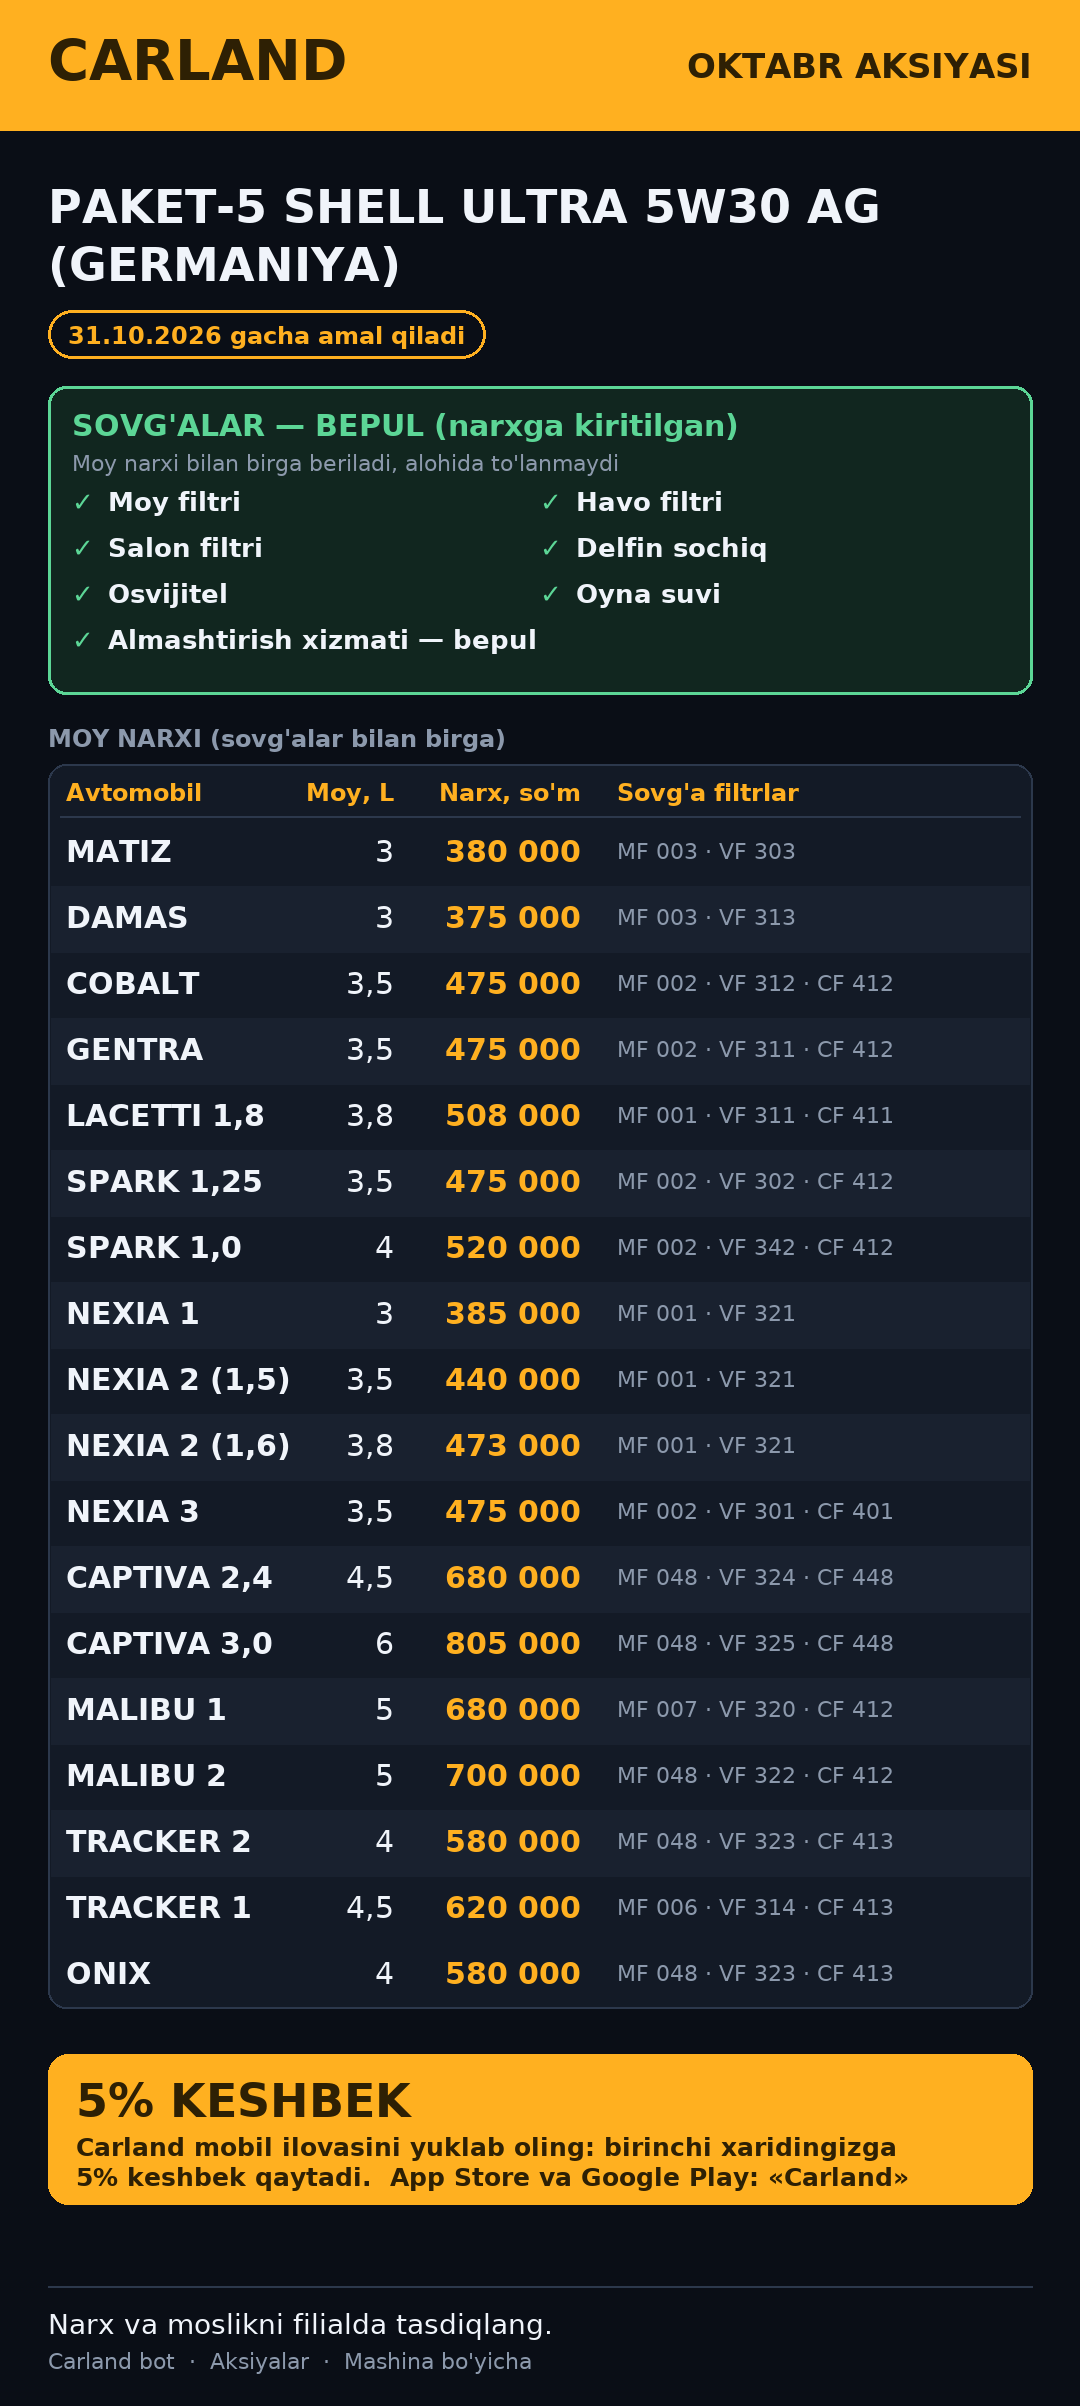
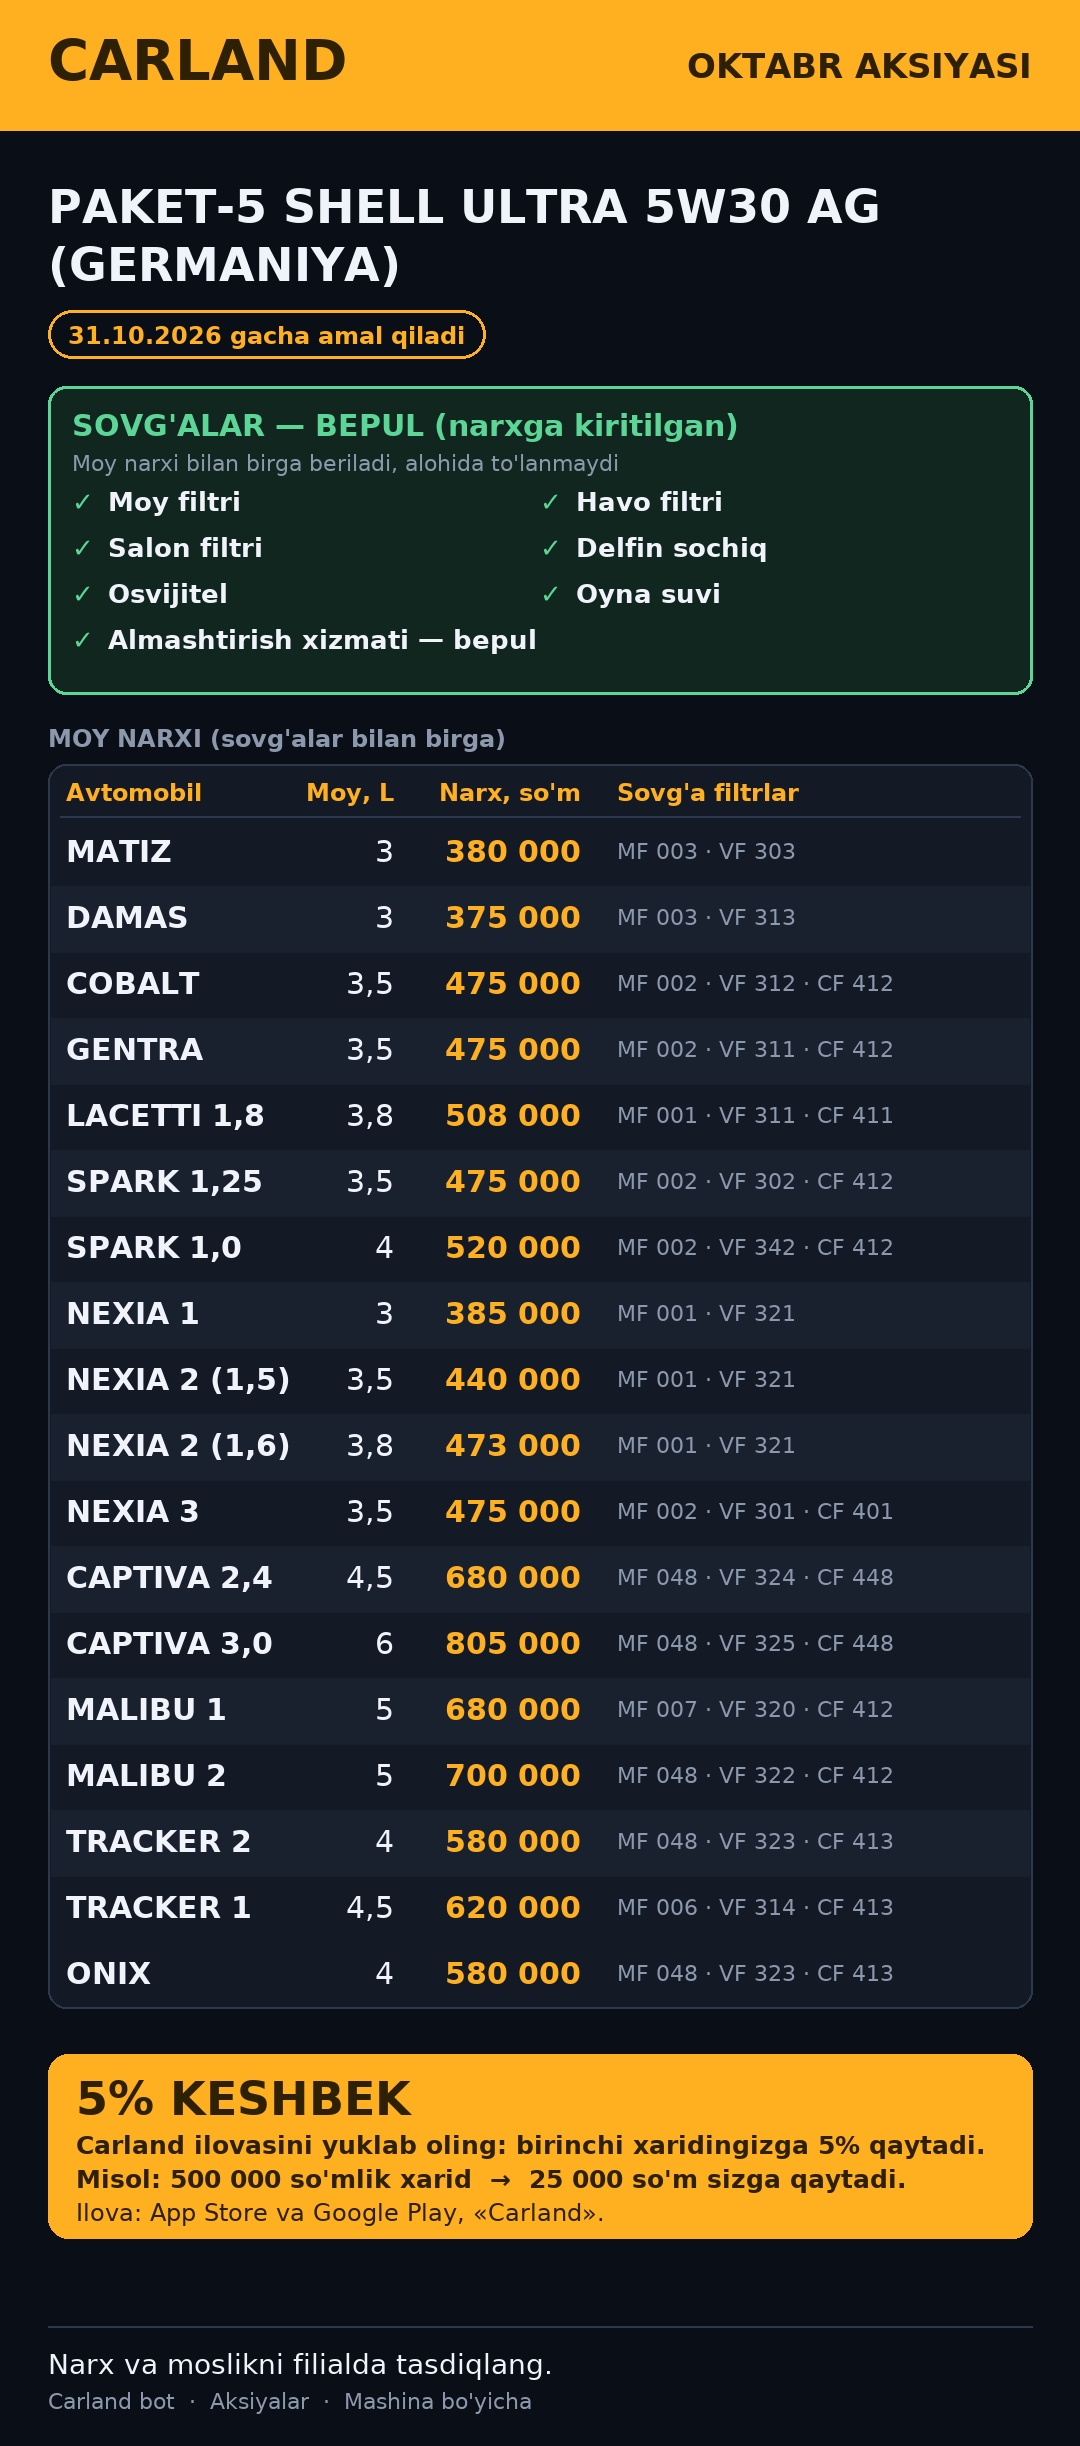
Keshbek: batafsil tushuntirish (3 qadam + misollar), bosh menyuda alohida tugma, erkin matnda "keshbek" savoliga tayyor javob; plakatlarda misol

diff --git a/bot/i18n.py b/bot/i18n.py
@@ -33,6 +33,35 @@ TEXT = {
             "Начните с меню ниже 👇"
         ),
     },
+    "menu_cashback": {"uz": "💳 Keshbek 5% — qanday olinadi?", "ru": "💳 Кешбэк 5% — как получить?"},
+    "cashback_full": {
+        "uz": (
+            "💳 *CARLAND KESHBEK — 5%*\n\n"
+            "Carland mobil ilovasini yuklab oling — *birinchi xaridingizga 5% keshbek* qaytadi.\n\n"
+            "*Qanday olinadi:*\n"
+            "1⃣ Ilovani yuklab oling (iPhone yoki Android — pastdagi tugmalar)\n"
+            "2⃣ Birinchi xaridingizni qiling\n"
+            "3⃣ Xarid summasining 5% qismi sizga keshbek bo'lib qaytadi\n\n"
+            "*Misol:*\n"
+            "• 200 000 so'mlik xarid → *10 000 so'm* qaytadi\n"
+            "• 500 000 so'mlik xarid → *25 000 so'm* qaytadi\n"
+            "• 1 000 000 so'mlik xarid → *50 000 so'm* qaytadi\n\n"
+            "📌 Keshbek qaysi usulda hisoblanishi va aniq shartlar — filialda yoki admin orqali aniqlashtiring."
+        ),
+        "ru": (
+            "💳 *КЕШБЭК CARLAND — 5%*\n\n"
+            "Скачайте мобильное приложение Carland — на *первую покупку вернём 5% кешбэка*.\n\n"
+            "*Как получить:*\n"
+            "1⃣ Скачайте приложение (iPhone или Android — кнопки ниже)\n"
+            "2⃣ Совершите первую покупку\n"
+            "3⃣ 5% от суммы покупки вернётся вам кешбэком\n\n"
+            "*Пример:*\n"
+            "• покупка на 200 000 сум → вернётся *10 000 сум*\n"
+            "• покупка на 500 000 сум → вернётся *25 000 сум*\n"
+            "• покупка на 1 000 000 сум → вернётся *50 000 сум*\n\n"
+            "📌 Как именно начисляется кешбэк и точные условия — уточняйте в филиале или у администратора."
+        ),
+    },
     "menu_app_ios": {"uz": "📱 iPhone — 5% keshbek", "ru": "📱 iPhone — кешбэк 5%"},
     "menu_app_android": {"uz": "🤖 Android — 5% keshbek", "ru": "🤖 Android — кешбэк 5%"},
     "cashback_note": {

diff --git a/bot/promo_posters.py b/bot/promo_posters.py
@@ -192,7 +192,7 @@ def render(key: str, pkg: dict) -> Image.Image:
     gift_cols = 2
     gift_rows_n = (len(gifts) + gift_cols - 1) // gift_cols
     h_gifts = (24 + 40 + 36 + gift_rows_n * 46 + 24) if gifts else 0
-    h_cash = 190
+    h_cash = 230
     row_h = 66 if has_codes or is_ev else 60
     head_h = 78 if is_ev else 56
     h_table = head_h + len(rows) * row_h
@@ -299,10 +299,11 @@ def render(key: str, pkg: dict) -> Image.Image:
 
     # keshbek bandi
     ty += 10
-    d.rounded_rectangle([PAD, ty, W - PAD, ty + 150], radius=20, fill=AMBER)
-    d.text((PAD + 28, ty + 20), "5% KESHBEK", font=_font(True, 46), fill=AMBER_DARK)
-    d.text((PAD + 28, ty + 78), "Carland mobil ilovasini yuklab oling: birinchi xaridingizga", font=_font(True, 25), fill=AMBER_DARK)
-    d.text((PAD + 28, ty + 108), "5% keshbek qaytadi.  App Store va Google Play: «Carland»", font=_font(True, 25), fill=AMBER_DARK)
+    d.rounded_rectangle([PAD, ty, W - PAD, ty + 184], radius=20, fill=AMBER)
+    d.text((PAD + 28, ty + 18), "5% KESHBEK", font=_font(True, 46), fill=AMBER_DARK)
+    d.text((PAD + 28, ty + 76), "Carland ilovasini yuklab oling: birinchi xaridingizga 5% qaytadi.", font=_font(True, 25), fill=AMBER_DARK)
+    d.text((PAD + 28, ty + 110), "Misol: 500 000 so'mlik xarid  →  25 000 so'm sizga qaytadi.", font=_font(True, 25), fill=AMBER_DARK)
+    d.text((PAD + 28, ty + 144), "Ilova: App Store va Google Play, «Carland».", font=_font(False, 24), fill=AMBER_DARK)
 
     # pastki qism
     d.line([PAD, total - 120, W - PAD, total - 120], fill=LINE, width=2)

diff --git a/bot/keyboards.py b/bot/keyboards.py
@@ -20,11 +20,22 @@ def main_menu(lang: str = "uz", has_recent: bool = False):
         [InlineKeyboardButton(t("menu_info", lang), callback_data="menu:info:0")],
         [InlineKeyboardButton(t("menu_branches", lang), callback_data="menu:branches")],
         [InlineKeyboardButton(t("menu_promo", lang), callback_data="menu:promohub")],
+        [InlineKeyboardButton(t("menu_cashback", lang), callback_data="menu:cashback")],
         [InlineKeyboardButton(t("menu_app_ios", lang), url=config.APP_STORE_URL),
          InlineKeyboardButton(t("menu_app_android", lang), url=config.PLAY_STORE_URL)],
         [InlineKeyboardButton(t("menu_ai", lang), callback_data="menu:ai")],
         [InlineKeyboardButton(t("menu_admin", lang), url=f"https://t.me/{ADMIN_USERNAME}")],
         [InlineKeyboardButton(t("menu_lang", lang), callback_data="menu:lang")],
+    ]
+    return InlineKeyboardMarkup(rows)
+
+
+def cashback_menu(lang: str = "uz"):
+    rows = [
+        [InlineKeyboardButton(t("menu_app_ios", lang), url=config.APP_STORE_URL),
+         InlineKeyboardButton(t("menu_app_android", lang), url=config.PLAY_STORE_URL)],
+        [InlineKeyboardButton(t("menu_admin", lang), url=f"https://t.me/{ADMIN_USERNAME}")],
+        [InlineKeyboardButton(t("home_btn", lang), callback_data="menu:main")],
     ]
     return InlineKeyboardMarkup(rows)
 

diff --git a/bot/ai.py b/bot/ai.py
@@ -760,6 +760,19 @@ def _try_filter_answer(user_text: str, context=None) -> str | None:
     return out
 
 
+_CASHBACK_RE = re.compile(r"(cash\s?back|keshbek|keshbak|kesbek|кешб[эе]к|кэшб[эе]к|кешбек|кэшбек)", re.I)
+
+
+def _try_cashback_answer(user_text: str, context=None) -> str | None:
+    """"keshbek bormi?", "cashback qanday olinadi" kabi savollar — tayyor tushuntirish."""
+    low = db.transliterate_cyrillic(user_text).lower()
+    if not (_CASHBACK_RE.search(user_text) or _CASHBACK_RE.search(low) or "keshbek" in low or "keshbэk" in low):
+        return None
+    from .i18n import t
+
+    return t("cashback_full", _lang(context))
+
+
 def _try_car_info_answer(user_text: str, context=None) -> str | None:
     words = re.findall(r"[\w']+", user_text, flags=re.UNICODE)
     if not words or len(words) > _CAR_INFO_MAX_WORDS:
@@ -900,6 +913,10 @@ async def ask_ai(user_text: str, context=None) -> tuple[str, str | None]:
     filter_answer = _try_filter_answer(user_text, context)
     if filter_answer:
         return filter_answer, None
+
+    cashback = _try_cashback_answer(user_text, context)
+    if cashback:
+        return cashback, "cashback"
 
     calc_answer = _try_deterministic_calc(user_text, context)
     if calc_answer:

diff --git a/bot/handlers/callbacks.py b/bot/handlers/callbacks.py
@@ -63,6 +63,13 @@ async def route(update: Update, context: ContextTypes.DEFAULT_TYPE):
                 reply_markup=keyboards.back_button(lang=lang),
             )
             return
+        if sub == "cashback":
+            kb = keyboards.cashback_menu(lang)
+            if query.message.photo:
+                await query.message.reply_text(t("cashback_full", lang), reply_markup=kb, parse_mode="Markdown")
+            else:
+                await query.edit_message_text(t("cashback_full", lang), reply_markup=kb, parse_mode="Markdown")
+            return
         if sub == "promohub":
             kb = keyboards.promo_hub(lang)
             if query.message.photo:

diff --git a/bot/handlers/text.py b/bot/handlers/text.py
@@ -128,7 +128,9 @@ async def handle_text(update: Update, context: ContextTypes.DEFAULT_TYPE):
         logger.exception("AI so'roviga javob berishda xatolik (matn: %r)", text)
         answer = t("ai_error", lang)
 
-    if keyboard_kind == "branches":
+    if keyboard_kind == "cashback":
+        reply_markup = keyboards.cashback_menu(lang)
+    elif keyboard_kind == "branches":
         # Filial/manzil so'ralganda javob ostida to'g'ridan-to'g'ri TANLASH
         # mumkin bo'lgan filiallar ro'yxati chiqadi — foydalanuvchi "bosh
         # menyudan qidiring" deb alohida yo'naltirilmasdan, shu yerning
